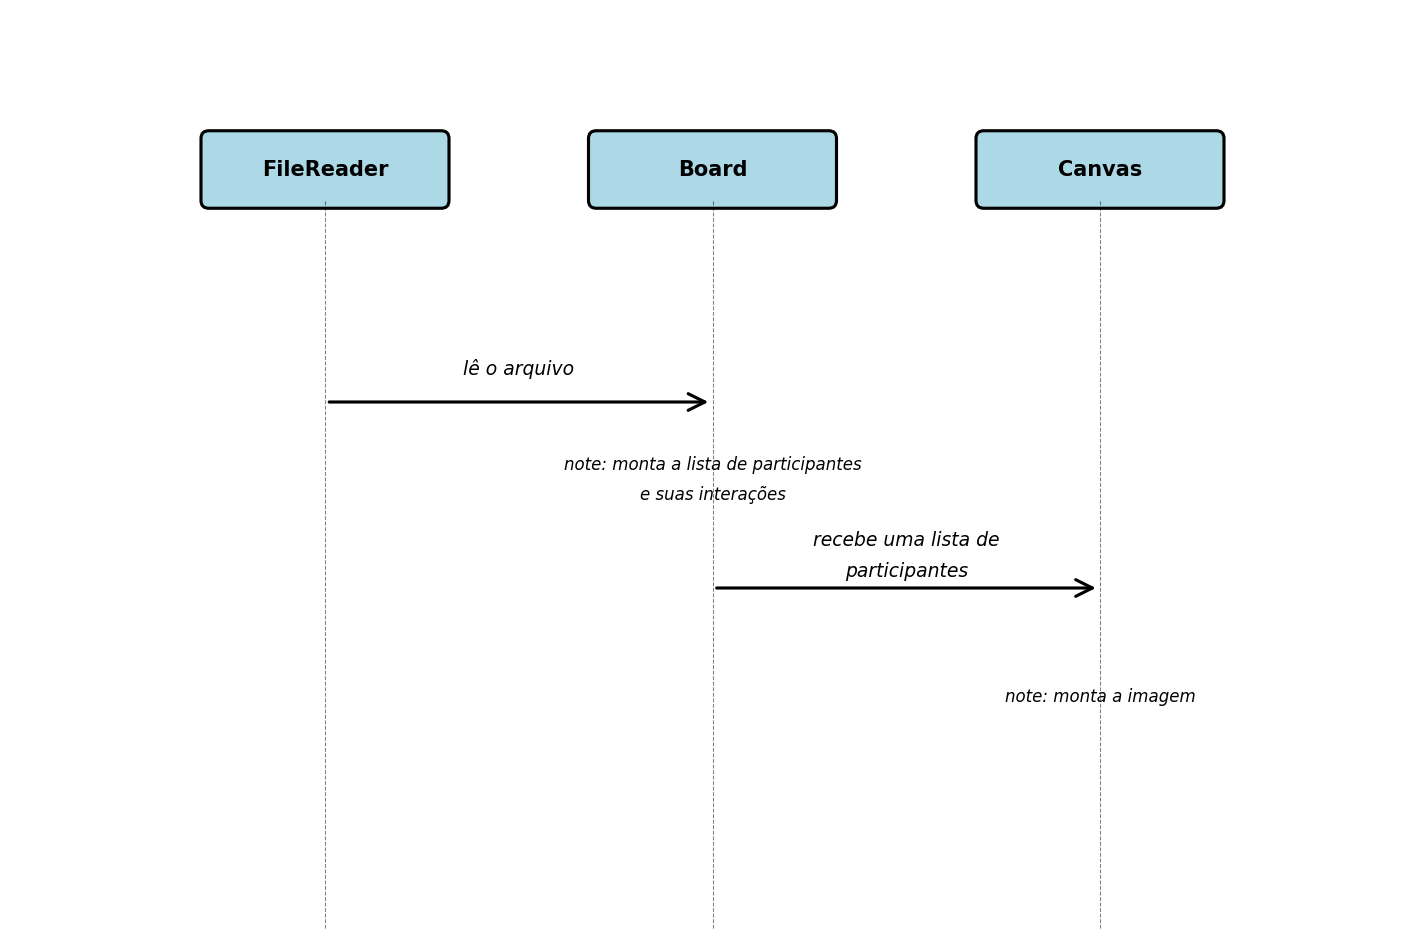
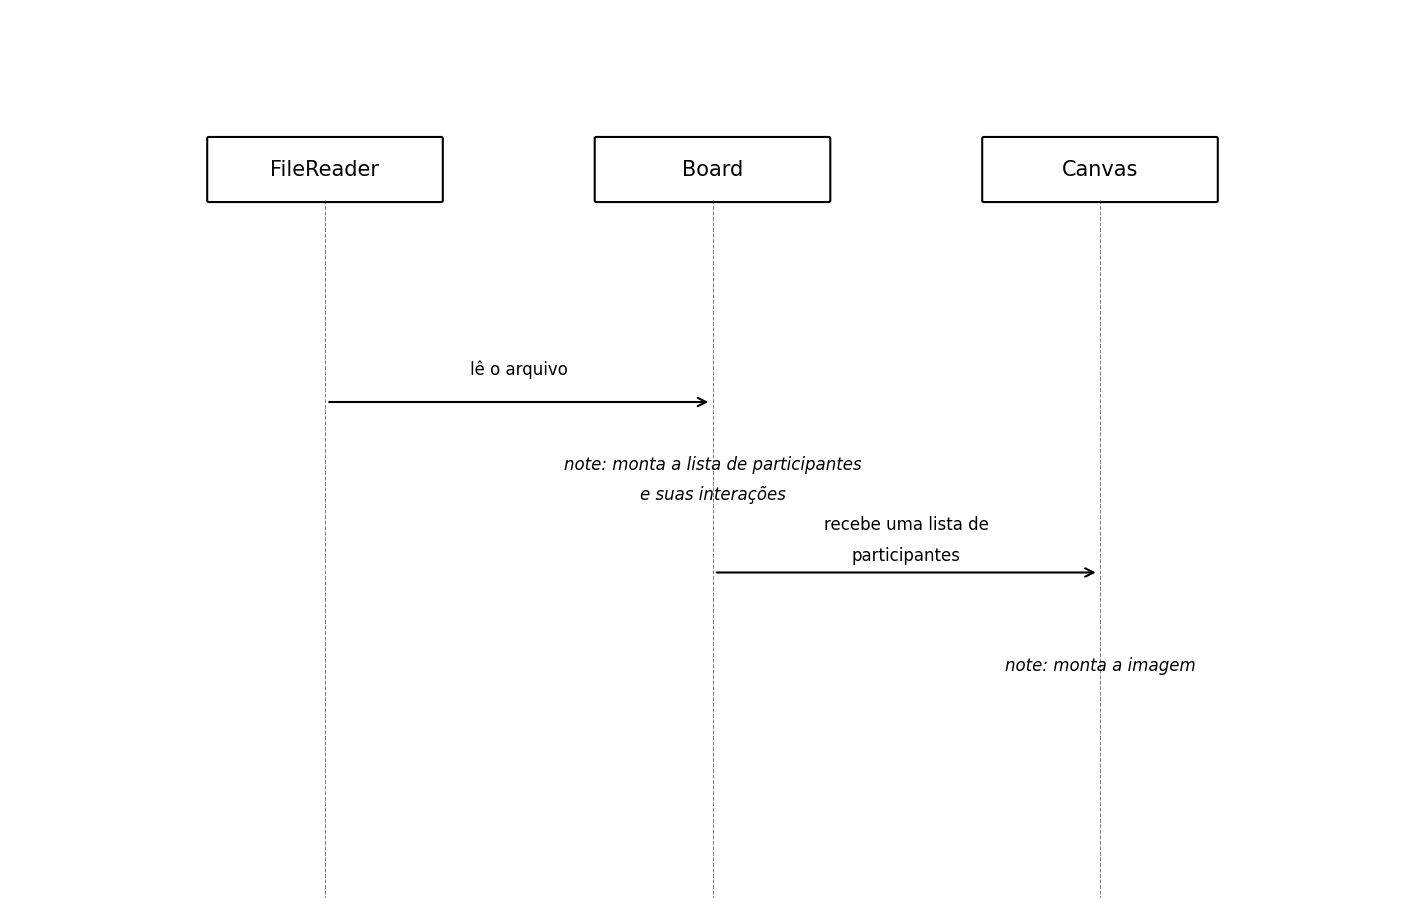
editando estilos

diff --git a/uml/engine.py b/uml/engine.py
@@ -144,13 +144,13 @@ class Canvas():
             box = FancyBboxPatch(
                 (x - self.box_width/2, self.y_position - self.box_height/2),
                 self.box_width, self.box_height,
-                boxstyle="round,pad=0.05", 
+                boxstyle="round,pad=0.01", 
                 edgecolor='black', 
-                facecolor='lightblue',
-                linewidth=1.5
+                facecolor='white',
+                linewidth=1
             )
             self.ax.add_patch(box)
-            self.ax.text(x, self.y_position, name, ha='center', va='center', fontweight='bold')
+            self.ax.text(x, self.y_position, name, ha='center', va='center')
             
             # Desenha linha vertical para cada participante
             self.ax.plot([x, x], [self.y_position - self.box_height/2, 0], 'k--', linewidth=0.5, alpha=0.5)
@@ -195,8 +195,8 @@ class Canvas():
             (start_x, self.y_position),
             (end_x, self.y_position),
             arrowstyle=arrow_style,
-            mutation_scale=20,
-            linewidth=1.5,
+            mutation_scale=10,
+            linewidth=1,
             color='black'
         )
         self.ax.add_patch(arrow)
@@ -210,11 +210,11 @@ class Canvas():
         for i, line in enumerate(text_lines):
             y_offset = base_y_offset - (i * 0.2)
             self.ax.text(mid_x, self.y_position + y_offset, line, 
-                        ha='center', va='bottom', fontsize=9, style='italic')
+                        ha='center', va='bottom', fontsize=8)
         
         # Ajusta a altura da linha se houver múltiplas linhas
         if len(text_lines) > 1:
-            self.y_position -= (len(text_lines) - 1) * 0.2
+            self.y_position -= (len(text_lines) - 1) * 0.1
 
     def _draw_note(self, participant_name: str, note: Note):
         """Desenha uma nota sobre um participante"""
@@ -233,7 +233,7 @@ class Canvas():
         
         # Ajusta a altura da linha se houver múltiplas linhas
         if len(text_lines) > 1:
-            self.y_position -= (len(text_lines) - 1) * 0.2
+            self.y_position -= (len(text_lines) - 1) * 0.1
 
     def render(self, output_file: str = None):
         """Renderiza o diagrama e salva como imagem"""

diff --git a/example.py b/example.py
@@ -3,8 +3,6 @@ from uml import Board, Canvas
 
 b = Board()
 
-print(b.render())
-
 c = Canvas(b.render())
 
 c.render(output_file='output.png')
